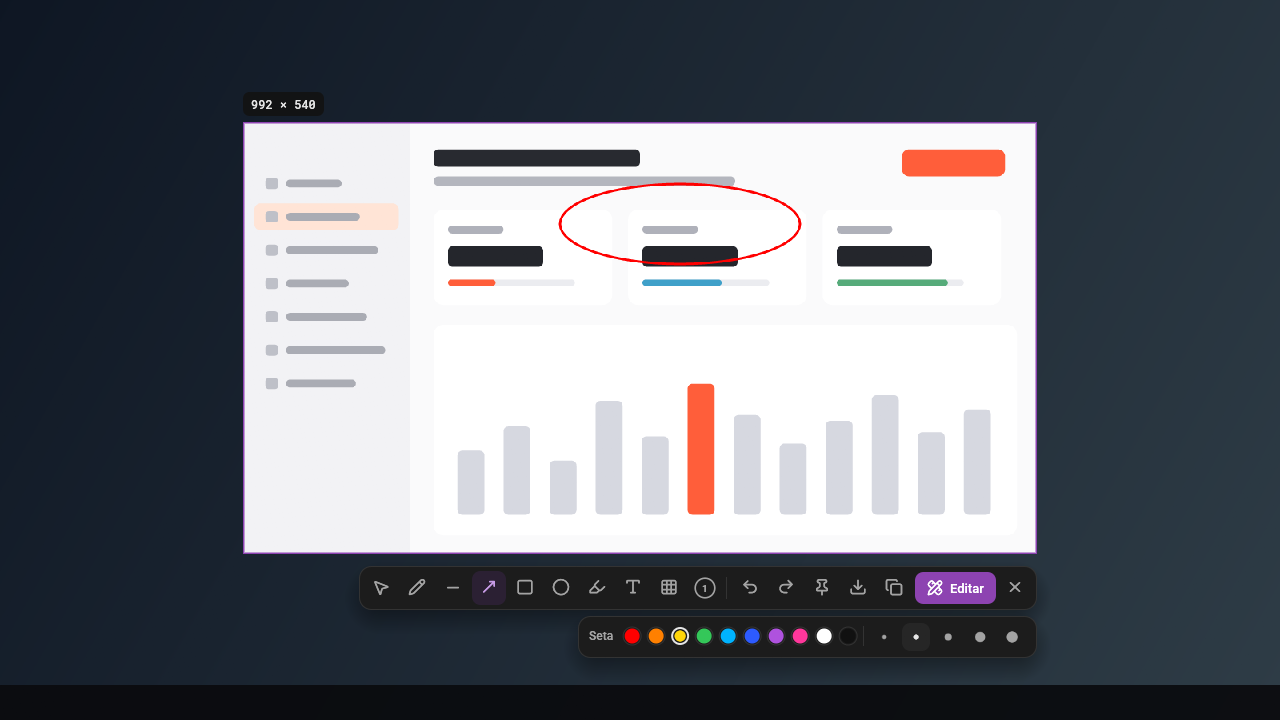
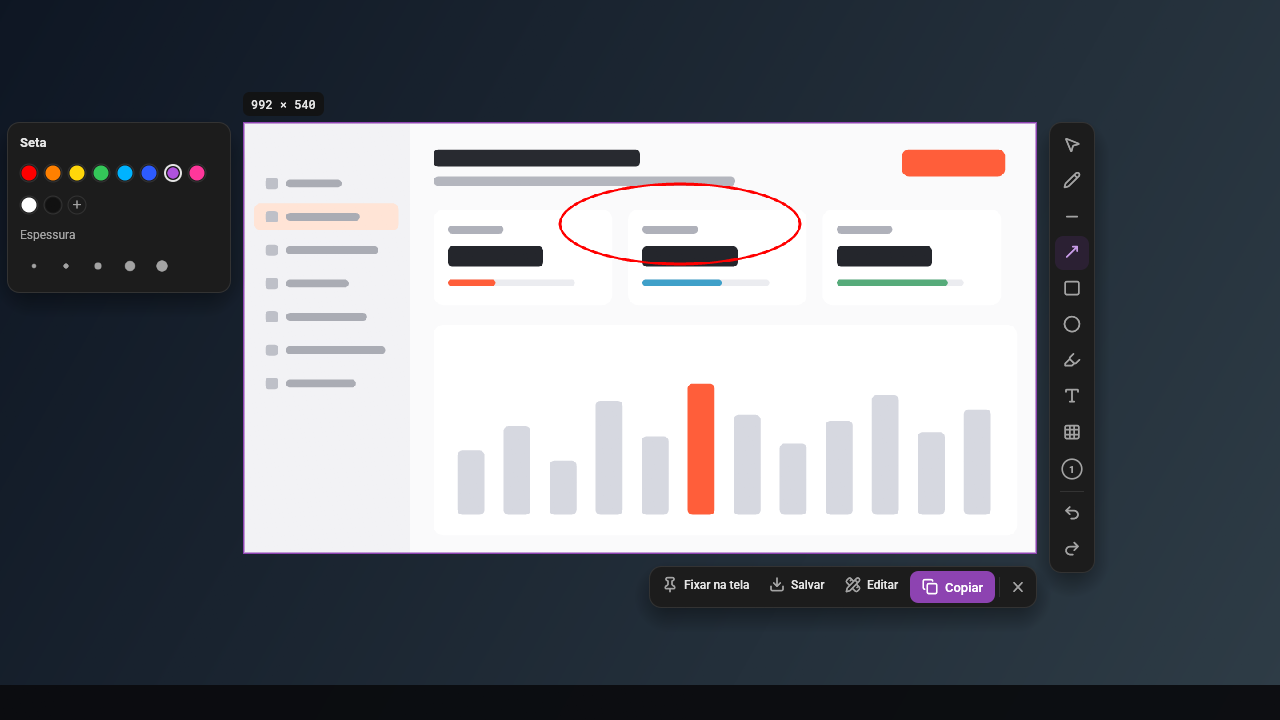
docs: direction C references
README describes Início in day groups with grid, list and the detail panel, the tabs, rounded rectangles, the fuller object bar, the capture's bars beside the area, resizable pinned pictures and Quit closing every window; its pictures are rendered again from the sample. design/screens gains page C's references, AGENTS.md the capture bars' rule and the Quit protocol. Window titles, the capture failure notice and the save dialog read in the user's language.

diff --git a/src/main.rs b/src/main.rs
@@ -504,6 +504,11 @@ fn main() -> eframe::Result {
     ui::chrome::init(false);
     let args = parse_args();
     let settings = settings::Settings::load();
+    // The language first: window titles are set before the first frame.
+    ui::i18n::set_lang(ui::i18n::resolve(
+        args.lang.unwrap_or(settings.lang),
+        ui::i18n::system_locale().as_deref(),
+    ));
 
     // The resident is one per user: a second launch shows the running one and leaves.
     let resident_mode = matches!(args.launch, Launch::Home) && args.screenshot.is_none();
@@ -615,12 +620,12 @@ fn main() -> eframe::Result {
                     .with_position(editor_window.0);
             } else if args.screenshot.is_some() {
                 vp = vp
-                    .with_title("Takeshot · captura")
+                    .with_title(ui::i18n::t(ui::i18n::Msg::CaptureWindowTitle))
                     .with_inner_size([1280.0, 720.0])
                     .with_decorations(false);
             } else {
                 vp = vp
-                    .with_title("Takeshot · captura")
+                    .with_title(ui::i18n::t(ui::i18n::Msg::CaptureWindowTitle))
                     .with_decorations(false)
                     .with_position(pos)
                     .with_inner_size(size)
@@ -654,7 +659,7 @@ fn main() -> eframe::Result {
         }
         (Launch::Gallery, _) => {
             vp = vp
-                .with_title("Takeshot · componentes")
+                .with_title(ui::i18n::t(ui::i18n::Msg::GalleryWindowTitle))
                 .with_inner_size([1280.0, 900.0]);
         }
         (Launch::Notice, _) => {
@@ -743,9 +748,9 @@ fn main() -> eframe::Result {
                         Mode::Overlay(Box::new(if demo { o.demo() } else { o }))
                     }
                     None => {
-                        shared.toast(format!(
-                            "Não consegui capturar a tela: {}",
-                            capture_error.unwrap_or_default()
+                        shared.toast(ui::i18n::tf(
+                            ui::i18n::Msg::CaptureFailed,
+                            &[&capture_error.unwrap_or_default()],
                         ));
                         Mode::Home(Box::new(home::Home::new(ctx, &shared)))
                     }

diff --git a/src/ui/i18n.rs b/src/ui/i18n.rs
@@ -239,6 +239,11 @@ pub enum Msg {
     DetailsEmpty,
     DayAtTime,
     SaveAndClose,
+    CaptureWindowTitle,
+    GalleryWindowTitle,
+    CaptureFailed,
+    SaveCaptureTitle,
+    PngLossless,
     MinimizeWindow,
     MaximizeWindow,
     RestoreWindow,
@@ -533,6 +538,11 @@ fn en(m: Msg) -> &'static str {
         Msg::DetailsEmpty => "Pick a capture to see its details.",
         Msg::DayAtTime => "{0} at {1}",
         Msg::SaveAndClose => "Save and close",
+        Msg::CaptureWindowTitle => "Takeshot · capture",
+        Msg::GalleryWindowTitle => "Takeshot · components",
+        Msg::CaptureFailed => "Couldn't capture the screen: {0}",
+        Msg::SaveCaptureTitle => "Save capture",
+        Msg::PngLossless => "PNG (lossless)",
         Msg::MinimizeWindow => "Minimize",
         Msg::MaximizeWindow => "Maximize",
         Msg::RestoreWindow => "Restore",
@@ -810,6 +820,11 @@ fn pt(m: Msg) -> &'static str {
         Msg::DetailsEmpty => "Escolha uma captura para ver os detalhes.",
         Msg::DayAtTime => "{0} às {1}",
         Msg::SaveAndClose => "Salvar e fechar",
+        Msg::CaptureWindowTitle => "Takeshot · captura",
+        Msg::GalleryWindowTitle => "Takeshot · componentes",
+        Msg::CaptureFailed => "Não consegui capturar a tela: {0}",
+        Msg::SaveCaptureTitle => "Salvar captura",
+        Msg::PngLossless => "PNG (sem perdas)",
         Msg::MinimizeWindow => "Minimizar",
         Msg::MaximizeWindow => "Maximizar",
         Msg::RestoreWindow => "Restaurar",

diff --git a/src/ui/kit.rs b/src/ui/kit.rs
@@ -1536,7 +1536,7 @@ pub fn color_add(ui: &mut Ui, t: &Tokens, tip: &str) -> Response {
     resp.on_hover_text(tip)
 }
 
-/// TakeUI top navigation: height 30, fully rounded.
+/// The main window's page navigation in the title bar: height 30, fully rounded.
 pub fn nav_pill(ui: &mut Ui, t: &Tokens, icon: Ico, label: &str, active: bool) -> Response {
     let lw = text_size(ui, label, 13.0, Weight::Medium).x;
     let (rect, resp) =
@@ -1573,7 +1573,7 @@ pub fn nav_pill(ui: &mut Ui, t: &Tokens, icon: Ico, label: &str, active: bool) -
     resp
 }
 
-/// TakeUI's Settings section: full width, height 36, a 16 px icon 12 px in and the label after it.
+/// A section of Ajustes: full width, height 36, a 16 px icon 12 px in and the label after it.
 /// The open section is tinted with the label and icon in the accent colour.
 pub fn section_item(ui: &mut Ui, t: &Tokens, icon: Ico, label: &str, active: bool) -> Response {
     let w = ui.available_width();

diff --git a/src/system/actions.rs b/src/system/actions.rs
@@ -99,10 +99,13 @@ pub fn auto_path(dir: &str) -> PathBuf {
 pub fn ask_save_path(dir: &str, parent: Option<&eframe::Frame>) -> Option<PathBuf> {
     let _ = std::fs::create_dir_all(dir);
     let mut d = rfd::FileDialog::new()
-        .set_title("Salvar captura")
+        .set_title(crate::ui::i18n::t(crate::ui::i18n::Msg::SaveCaptureTitle))
         .set_directory(dir)
         .set_file_name(default_name())
-        .add_filter("PNG (sem perdas)", &["png"]);
+        .add_filter(
+            crate::ui::i18n::t(crate::ui::i18n::Msg::PngLossless),
+            &["png"],
+        );
     if let Some(f) = parent {
         d = d.set_parent(f);
     }

diff --git a/src/ui/brand.rs b/src/ui/brand.rs
@@ -1,4 +1,5 @@
-//! Brand images embedded in the binary: the app icon per theme, tray icons and the mark.
+//! The brand: the app icon per theme, tray icons and the mark, embedded in the binary, and the
+//! product name as each theme writes it (`wordmark`).
 //! The PNGs come from `cargo run --example brand`, which renders the SVG masters in assets/brand/.
 
 use crate::ui::style::{Weight, font};

diff --git a/AGENTS.md b/AGENTS.md
@@ -6,7 +6,7 @@ Takeshot is a screenshot tool written in Rust with egui: capture with PrtSc, ann
 
 Takeshot ships two themes, **TakeUI** and **Coral UI**, each with light, dark and system modes, over one layout. A theme changes the colours (`Tokens`), the brand mark and name (`ui::brand`) and the look of a few kit components (selection marks, the active tool, the switch knob, the slider line); it never moves a function. Parity means a visible change looks right in all four looks: TakeUI and Coral UI, light and dark. Use the `implementar-nos-dois-temas` skill for any change a user can see.
 
-In `design/takeshot-ui.fig`, page A holds the layout and TakeUI's look, and page "C · Propostas (2026-11-08)" the approved changes to that layout; Coral UI's colours and components are in the "B · Design system" frame of page B (page B's screens explore a layout the app does not use).
+In `design/takeshot-ui.fig`, page A holds the layout and TakeUI's look, and page "C · Propostas (2026-11-08)" the changes to that layout approved on 2026-11-08 (Início in day groups with a grid or list and a detail panel, underlined tabs, the object bar, the capture's bars beside the area); Coral UI's colours and components are in the "B · Design system" frame of page B (page B's screens explore a layout the app does not use).
 
 ## Layout
 
@@ -15,7 +15,7 @@ In `design/takeshot-ui.fig`, page A holds the layout and TakeUI's look, and page
 | `src/main.rs` | entry point: arguments, shared state, window modes |
 | `src/engine/` | drawing engine: annotations, objects, pointer policy, rendering, background presets |
 | `src/system/` | operating system and data: screen capture and monitor work areas, clipboard and files, fonts, settings, and the resident's parts (`resident`, `tray`, `hotkeys`, `prtsc_hook`, `instance`, `autostart`, `recents`, `borderless`) |
-| `src/ui/` | design system: `assets` (embedded fonts and the icon font), `tokens` (colours per theme and mode), `i18n` (strings), `icon` (Lucide), `style` (egui visuals), `kit` (components), `brand` (icons and mark), `chrome` (the theme's title bar: drag, double click, resize edges, window buttons, the native fallback), `gallery` (all of it on one screen) |
+| `src/ui/` | design system: `assets` (embedded fonts and the icon font), `tokens` (colours per theme and mode), `i18n` (strings), `icon` (Lucide), `style` (egui visuals), `kit` (components), `brand` (icons, mark and the theme's wordmark), `chrome` (the theme's title bar: drag, double click, resize edges, window buttons, the native fallback), `gallery` (all of it on one screen) |
 | `src/screens/` | window state and behaviour (`home`, `editor` and `overlay` hold the main window's, the editor's and the capture's state and carry out their `MainAction`s, `EditorAction`s and `CaptureAction`s; the editor's canvas is `Editor::canvas`), the pin window and the copy notice, and the resident's `shell` (main window, tray menu, About and close dialogs) |
 | `src/views/` | how the screens draw, in both themes: the main window (`shell`, `home`, `style`, `settings`), the editor (bars, panel, object bar) and the capture's bars, from the state in `screens/`; they return what the user asked for as actions, which `screens/` carries out. `begin_frame` applies the look when it changes |
 | `assets/` | embedded fonts with their licenses, and the brand SVG masters with the PNG, ICO and ICNS files generated from them |
@@ -43,12 +43,17 @@ Editor and capture share one behaviour:
 - A slider drag is one undo step too: a view sends `Gesture(true)` when it is grabbed and `Gesture(false)` when let go (`Doc::begin_gesture`, `end_gesture`); a frame with no button down closes one left open. Restyles go through `Doc::restyle_selected(&Restyle)`, whose colour and opacity are apart, so a multi-selection keeps each object's other half. Picking from a list goes through `Annotator::pick`, which copies the object's style into the options, as a click on the canvas does.
 - Each frame: `bake()` first (it returns annotations to render only when the picture is out of date), then the pointer, then `paint_selection`. During a drag only its start re-bakes, to take the dragged objects out, and `paint_selection` paints `painted_live()` until the drop re-bakes. A big capture never re-renders while a drag moves something; arrow nudges and Ctrl+D re-render once per press.
 
+## The capture's bars
+
+`engine::placement::capture_bars` places them, tested on its own: the tools in one column beside the area (right, else left) from its top, past its bottom only when the area is lower; the options panel next to them; the actions in a row under the area (over it without room) ending at its right edge. When tools and options do not fit on one side they take one side each; only with no room left do they cover the area. The view hands it the frames' drawn sizes from the frame before.
+
 ## The resident
 
 `takeshot` with no arguments starts the resident: one process per user owns the tray icon, the global hotkeys and the main window, and a second launch only shows it. Captures, editors and pinned images run as their own processes (`--capture`, `--edit`, `--pin`).
 
 - Event sources (hotkeys, the PrtSc hook, the tray, a second launch) only send a `ResidentEvent` and request a repaint; `App::logic` drains them, so they act while no window is shown. On Windows and macOS the root viewport is an invisible host and the main window a child viewport; on Linux the root is the main window.
 - A capture whose selection is on screen holds `instance::CaptureSlot`; another `--capture` exits before grabbing the screen.
+- Editors, pinned pictures and the capture register with the resident (`instance::register_child`) and listen on a socket of their own (`listen_for_quit`). The tray's Quit asks each to close (`ask_to_quit`, `QuitRound`): an editor with unsaved edits asks its user, and one Cancel keeps everything open, the resident included.
 - A borderless, rounded, transparent window on Windows needs `borderless::flatten_borderless`: egui-winit always asks winit for the undecorated shadow, which shows as a 1 px line across the top and a square shadow around the corners.
 
 ## Verify before calling work done
@@ -56,7 +61,7 @@ Editor and capture share one behaviour:
 1. `cargo fmt --check` prints nothing.
 2. `cargo clippy --all-targets -- -D warnings` finishes with zero warnings, pre-existing ones included.
 3. `mkdir -p shots` once (the folder is git-ignored), then `cargo test > shots/test.log 2>&1` and read the log. Send test output to a file and run one test command at a time: a pipe holds a hung run open.
-4. For visible changes, render the screens and compare them with the design file: `design/screens/` holds the references exported from the `.fig` (TakeUI's look; Coral UI is the same layout, checked against the "B · Design system" frame for colours and components), and the exact measures (sizes, padding, gaps, font sizes) are on the `.fig`'s nodes, read through OpenPencil. `--screenshot out.png` saves the window after ~120 frames and works with every window: `takeshot --screenshot out.png` (main window), `takeshot --edit --screenshot out.png` (editor with a sample picture), `takeshot --capture --screenshot out.png` (capture overlay on a sample). `takeshot` alone starts the resident (close a running one first); debug builds are console programs, so a script that launches one must redirect its output or the new console window takes the focus. `--lang en|pt|auto`, `--theme takeui|coral` and `--mode light|dark|system` override the saved look for this run in every window drawn from the tokens; `--page inicio|estilo|ajustes` opens the main window on that page, `--page editor` the editor and `--page captura` the capture (both on the sample picture, the capture with an area and a mark), `--page aviso` the copy notice, and `--page componentes` the component gallery; `--captures-dir <folder>` shows another folder in Início and `--select <file name>` starts it with that capture chosen (its detail panel filled). None of them touches the saved settings. Screenshots for the repo or a PR use a sample folder, never the user's own captures. `scripts/screenshots.sh` renders the gallery, the three pages, the editor, the capture and the notice in Portuguese in all four theme/mode combinations into `shots/`, with `design/screens` as Início's captures (build with `cargo build --release` first).
+4. For visible changes, render the screens and compare them with the design file: `design/screens/` holds the references exported from the `.fig` (`takeui-*` from page A, `c-*` the page C direction; Coral UI is the same layout, checked against the "B · Design system" frame for colours and components), and the exact measures (sizes, padding, gaps, font sizes) are on the `.fig`'s nodes, read through OpenPencil. `--screenshot out.png` saves the window after ~120 frames and works with every window: `takeshot --screenshot out.png` (main window), `takeshot --edit --screenshot out.png` (editor with a sample picture), `takeshot --capture --screenshot out.png` (capture overlay on a sample). `takeshot` alone starts the resident (close a running one first); debug builds are console programs, so a script that launches one must redirect its output or the new console window takes the focus. `--lang en|pt|auto`, `--theme takeui|coral` and `--mode light|dark|system` override the saved look for this run in every window drawn from the tokens; `--page inicio|estilo|ajustes` opens the main window on that page, `--page editor` the editor and `--page captura` the capture (both on the sample picture, the capture with an area and a mark), `--page aviso` the copy notice, and `--page componentes` the component gallery; `--captures-dir <folder>` shows another folder in Início and `--select <file name>` starts it with that capture chosen (its detail panel filled). None of them touches the saved settings. Screenshots for the repo or a PR use a sample folder, never the user's own captures. `scripts/screenshots.sh` renders the gallery, the three pages, the editor, the capture and the notice in Portuguese in all four theme/mode combinations into `shots/`, with `design/screens` as Início's captures (build with `cargo build --release` first).
 5. Before a push, `scripts/check.sh` runs what CI runs: fmt, clippy and tests here, then the same on Linux in a container (`scripts/ci-linux`, needs Docker) plus clippy for macOS, on the commit being pushed. Code behind `#[cfg(...)]` for another system compiles only there, so steps 1 to 3 on Windows miss it. The pre-push hook runs it once a clone has `git config core.hooksPath .githooks`.
 
 ## Tools

diff --git a/README.md b/README.md
@@ -22,7 +22,9 @@ Ferramenta de captura de tela para Windows, macOS e Linux: captura instantânea 
 - Paleta de cores com cor personalizada, 5 espessuras (a roda do mouse ajusta), retângulo e círculo preenchidos.
 - Texto com várias fontes do sistema (sans, negrito, serifada, elegante, mono, impacto, condensada, manuscrita) e opção de texto com fundo.
 - Toda marca continua editável, na captura e no editor, com qualquer ferramenta: sobre a própria forma (a linha de uma forma vazada, o miolo de uma preenchida, o texto) o cursor vira a cruz de mover, e arrastar seleciona e move; fora das formas, a ferramenta desenha. Com Selecionar (`V`) um clique escolhe, `Shift`+clique soma à seleção, arrastar move e as alças redimensionam (pontas em linha e seta, oito alças em retângulo, elipse e borrar, quatro cantos em texto, traço e numeração).
-- Com algo selecionado, a barra de opções mostra a cor, a espessura e o preenchimento do objeto, muda o objeto e tem duplicar e excluir.
+- Na captura, as ferramentas ficam numa coluna ao lado da área (a partir do topo dela), as opções da ferramenta ou do objeto escolhido num painel ao lado, e Fixar, Salvar, Editar e Copiar numa linha embaixo da área, terminando na borda direita dela. Perto da borda da tela, tudo passa para o lado de dentro sem cobrir a área.
+- Com algo selecionado, o painel de opções mostra a cor, a espessura e o preenchimento do objeto, muda o objeto e tem duplicar e excluir.
+- Retângulos com cantos arredondados (0 a 40 px), no painel de opções da captura e no painel Objeto do editor.
 - Com a ferramenta Texto, um clique num texto existente volta a editá-lo, com o cursor onde se clicou (sobre ele o ponteiro vira o de texto); com as outras ferramentas, duplo clique. Enquanto se digita: cursor, setas, seleção com o mouse, `Ctrl+A`, colar; a moldura tracejada arrasta o texto; Enter confirma, `Shift+Enter` quebra a linha. Excluir um passo numerado não renumera os outros.
 - Desfazer e refazer cobrem criar, mover, redimensionar, mudar o estilo, duplicar e excluir; um arraste inteiro é um passo só.
 - Na captura, as ferramentas de desenho começam dentro da área escolhida.
@@ -31,10 +33,10 @@ Ferramenta de captura de tela para Windows, macOS e Linux: captura instantânea 
 
 ![Editor](docs/editor.png)
 
-- Barra de título com o nome do arquivo e as dimensões, desfazer e refazer, Fixar na tela, Salvar como, Salvar e Copiar; barra de ferramentas com as dez ferramentas, cores, espessuras e zoom de 10 a 400 % (`Ctrl`+roda e a pinça do touchpad aproximam no ponteiro, em proporção ao giro; espaço ou o botão do meio arrastam a imagem).
-- Painel Objeto: cor, espessura, opacidade, preenchimento, fonte e fundo do texto do objeto selecionado (ou da ferramenta), Duplicar e Excluir, e a lista de objetos: clique escolhe, o olho oculta, o botão direito traz para frente ou envia para trás. Arrastar um controle deslizante é um passo só de desfazer.
-- Sobre o objeto selecionado, uma barra pequena com a cor, duplicar, trazer para frente, enviar para trás e excluir.
-- Painel Estilo, o mesmo de Estilo na janela principal:
+- Barra de título fina, com o nome do arquivo e as dimensões, desfazer e refazer, Fixar na tela, Salvar como, Salvar e Copiar; barra de ferramentas com as dez ferramentas, cores, espessuras e zoom de 10 a 400 % (`Ctrl`+roda e a pinça do touchpad aproximam no ponteiro, em proporção ao giro; espaço ou o botão do meio arrastam a imagem).
+- Painel com as abas Objeto e Estilo. Objeto: cor, espessura, cantos, opacidade, preenchimento, fonte e fundo do texto do objeto selecionado (ou da ferramenta), Duplicar e Excluir, e a lista de objetos: clique escolhe, o olho oculta, o botão direito traz para frente ou envia para trás. Arrastar um controle deslizante é um passo só de desfazer.
+- Sobre o objeto selecionado, uma barra pequena com a cor, a espessura (com a opacidade no mesmo menu), preencher, duplicar, trazer para frente, enviar para trás e excluir.
+- Aba Estilo, a mesma de Estilo na janela principal, em abas (Fundo, Moldura e Marca d'água):
   - 12 degradês prontos, degradê personalizado (duas cores e ângulo), cor sólida, fundo com a própria captura borrada ou transparente.
   - Margem, cantos arredondados, sombra, barra de janela e formatos 16:9, 4:3, 1:1 e 9:16.
   - Marca d'água com logo (PNG, JPG, WebP) e texto: 9 posições (cantos, bordas, centro) ou faixa superior/inferior com cor própria; tamanho, distância e opacidade ajustáveis; sobre o fundo ou sobre a captura.
@@ -46,20 +48,20 @@ Ferramenta de captura de tela para Windows, macOS e Linux: captura instantânea 
 - Copiar ou salvar direto da captura pode aplicar o estilo completo, só os cantos arredondados ou nada (em Estilo).
 
 **Extras**
-- Fixar uma captura por cima das outras janelas (arrastar move, roda do mouse dá zoom, duplo clique fecha).
+- Fixar uma captura por cima das outras janelas: arrastar o meio move, arrastar uma borda ou um canto muda o tamanho mantendo a proporção, a roda do mouse dá zoom, duplo clique ou `Esc` fecha, e o botão direito copia, salva, abre no editor ou volta ao tamanho original.
 - Arrastar uma imagem para a janela principal ou colar com `Ctrl+V` abre no editor.
 
 **Janela principal**
-- Início: as capturas da pasta em grade, com filtros (Todas, Hoje, Esta semana) e busca por nome. Passar o mouse num card mostra copiar, editar, mostrar na pasta e mandar para a lixeira; duplo clique abre no editor; o botão direito traz o mesmo menu.
-- Estilo: prévia ao vivo do fundo, da moldura e da marca d'água que vão em cada cópia, com o que acontece ao copiar ou salvar direto da captura.
+- Início: as capturas da pasta agrupadas por dia (Hoje, Ontem, datas), em grade ou em lista, com filtros (Todas, Hoje, Esta semana) e busca por nome. Na grade, passar o mouse num card mostra copiar, editar, mostrar na pasta e mandar para a lixeira; na lista, os mesmos botões aparecem na linha. Duplo clique abre no editor e o botão direito traz o mesmo menu. O botão Detalhes mostra um painel com a prévia, a data, as dimensões, o tamanho e a pasta da captura escolhida, e Copiar, Abrir no editor, Mostrar na pasta, Fixar e Excluir. No teclado, as setas escolhem, `Enter` abre no editor, `Ctrl+C` copia e `Del` manda para a lixeira.
+- Estilo: prévia ao vivo do fundo, da moldura e da marca d'água que vão em cada cópia, ajustados em abas, com o que acontece ao copiar ou salvar direto da captura no pé do painel.
 - Ajustes: inicialização, aparência, janela e bandeja, captura, pasta de salvar, atalhos (com "Alterar" para gravar teclas novas) e sobre.
-- Aparência: dois temas, TakeUI e Coral UI, em claro, escuro ou seguindo o sistema, trocados na hora em Ajustes > Geral > Aparência, assim como o idioma (Automático, English, Português). A lua e o sol na barra de título alternam entre claro e escuro.
+- Aparência: dois temas sobre o mesmo layout, TakeUI (roxo) e Coral UI (coral, com marcas de corte na seleção), em claro, escuro ou seguindo o sistema, trocados na hora em Ajustes > Geral > Aparência, assim como o idioma (Automático, English, Português). A lua e o sol na barra de título alternam entre claro e escuro.
 
 **Bandeja**
 - O Takeshot fica na área de notificação: os atalhos funcionam com a janela fechada. Abrir o programa de novo só traz a janela que já está rodando.
 - Menu do ícone (clique direito): capturar área, tela inteira ou em 3 segundos; abrir o Takeshot; as 5 capturas recentes (clique copia, `Shift`+clique abre no editor) e a pasta delas; estilo e marca d'água; ajustes; tema claro, escuro ou do sistema; sobre; sair.
 - Clique esquerdo no ícone abre o Início ou captura uma área, como estiver em Ajustes.
-- O X da janela pergunta na primeira vez se é para sair ou minimizar para a bandeja, e pode lembrar a escolha (muda em Ajustes > "Ao clicar no X"). Sair de vez é pelo menu da bandeja.
+- O X da janela pergunta na primeira vez se é para sair ou minimizar para a bandeja, e pode lembrar a escolha (muda em Ajustes > "Ao clicar no X"). Sair de vez é pelo menu da bandeja, e fecha também os editores, as imagens fixadas e a captura; um editor com mudanças pergunta antes (Descartar, Cancelar, Salvar e fechar), e Cancelar mantém tudo aberto.
 - Ajustes > "Iniciar com o sistema" abre o Takeshot no login, direto na bandeja (`takeshot --minimized`).
 
 ## Atalhos
